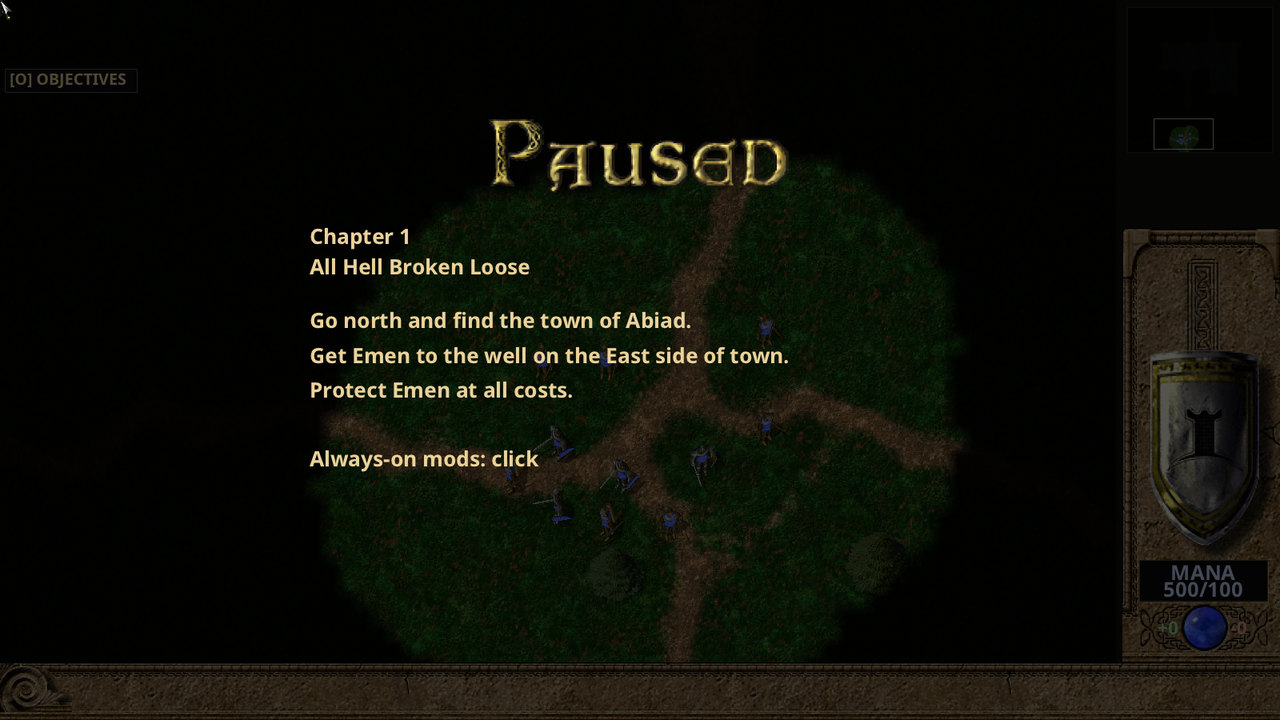
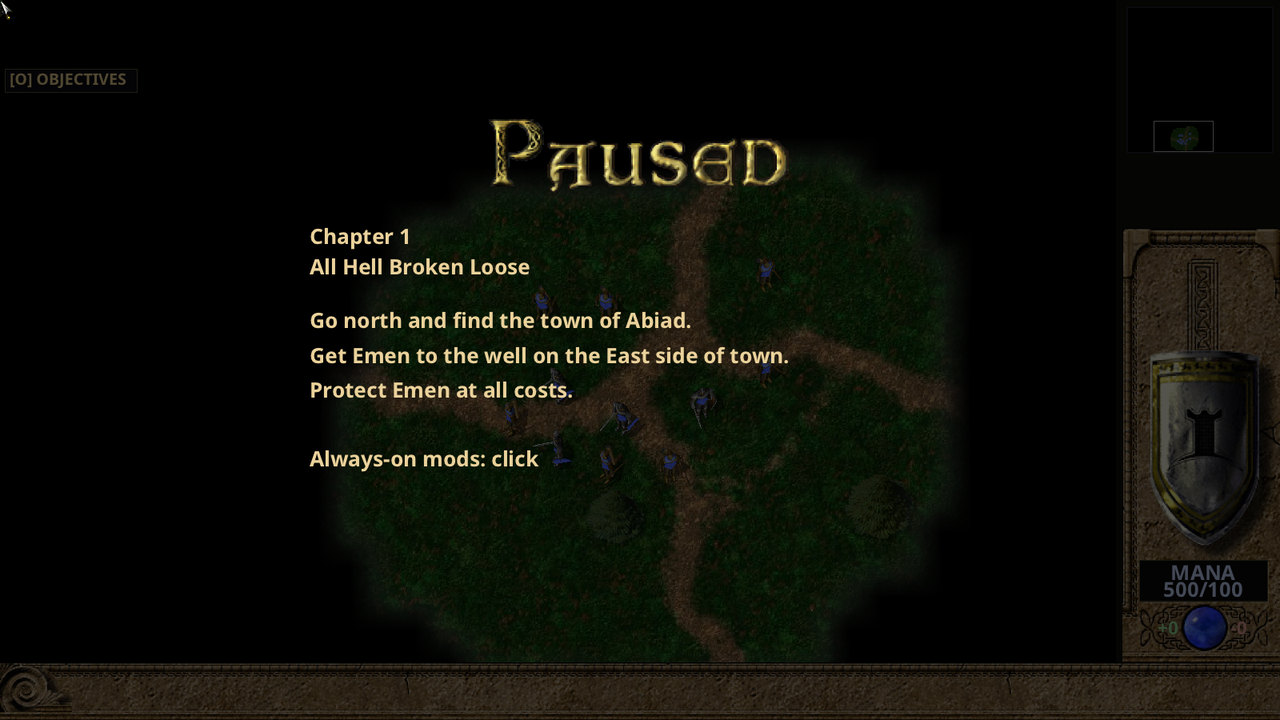
Retake the two guide pictures whose fog changed
campaign-briefing.jpg (unexplored ground now black around the squad's
sight) and disconnect-wait.jpg (Aramon's white mist outside Elsin's
sight, her radar no longer clearing the view), by the 0.9.0 capture jobs.
The army-filled HUD and side pictures were re-rendered, checked and kept.

Claude-Session: https://claude.ai/code/session_01UYTPK21mdyzXBEcWXE9ADp

diff --git a/docs/img/README.md b/docs/img/README.md
@@ -1,5 +1,21 @@
 # README and user-guide screenshots
 
+**Retaken for the retail fog of war** (2026-10-29): `guide/campaign-briefing.jpg`
+and `guide/disconnect-wait.jpg`, the two pictures whose fog changed visibly:
+ground never seen is now opaque black, ground seen before lies under the side's
+rolling mist (white for Aramon; Inner Circle plays the room default, EXPLORED),
+and the clear area follows retail's sight rules (about 1x sight on flat ground,
+the Monarch's radar no longer clearing it). Captured by a Debug `-O2` build of
+the fog branch with the 0.9.0 procedures unchanged: the briefing as the 0.9.0
+`brief` job (`--campaign takmission01_mt`, `TAK_SHOT_BRIEFING`, 1600 × 900, the
+0.9.0 capture profile and scratch install; script `brief.sh` in
+`~/tak-tmp/scratch/retailfog/shots/`), the disconnect banner with the 0.9.0
+`dw.sh` (same folder), both scaled to 1280 × 720, JPEG quality 86. Checked by
+eye and kept: `hud.jpg`, `guide/hud-annotated.jpg` and the five
+`guide/side-*.jpg` (re-rendered with the 0.9.0 jobs: the army fills the view,
+so it is all in sight and nothing differs but unit placement), and the
+spectator, replay and fog-off pictures, which draw no fog.
+
 **Retaken after 0.9.11** (2026-10-29): `guide/options-graphics.jpg` and
 `guide/voice-chat.jpg`, because the **SAVE** button is gone (Options, Voice Chat
 and Controls save every change as it is made): their footers now read
@@ -392,7 +408,7 @@ replace them. The unchanged views contain no version text.
 | `fire-on-the-move.jpg` | **From the 0.9.0 build. Development scene, two-player spawned.** Ulasem Arena, Retail pathfinding, 14 s after one plain move order east (**scripted orders**). 14 Aramon Archers and 2 Mage Builders were spawned in a 4-wide grid; 6 Taros Zombies and 6 Skeleton Archers (enemy, no AI) stand south of their path. Shift is held, so the move line shows. Zombies have reached the back of the column, which keeps walking and shooting; the flashes are hits, and three of the sixteen have fallen, so the information bar shows two portraits (2 Mage Builders, 11 Archers) and 13 SELECTED. 1.4× zoom, fog off |
 | `cartographer-terrain.jpg` | Cartographer Terrain tab on Ulasem Arena (`--shot --shot-tool terrain`, fresh editor profile, 921 × 691), retaken by the 0.9.0 build (byte-identical to the 0.8.3 picture): the grouped section browser, All sections (555 pieces, 1261 sections), with readable piece names, variant badges and the scrollbar, and five tools on the toolbar |
 | `tactical-dots.jpg` | From the 0.9.0 build. **Benchmark** run (Absurd) on Ulasem Arena, 50 game seconds in, spectator view fully zoomed out (zoom 0.1875, the floor for this map in a 1920 × 1080 window), where the default Tactical Dots Zoom of 0% shows dots. The deterministic run was rendered twice at the same tick and camera, with Tactical Dots off and on in otherwise identical profiles. The same 800 × 900 region (the east of the map: the blue and red armies) is cropped from each at 1:1 and placed side by side under labels. With models, fire and spell effects show among the armies; with dots none are drawn |
-| `campaign-briefing.jpg` | *Book of Darien* chapter 1 briefing over the paused battlefield, from a direct mission launch (`TAK_SHOT_BRIEFING`, 1600 × 900, scaled), by the 0.9.0 build: the PAUSED heading is retail art, the chapter, title and objectives are in the UI font, and the last line names the always-enabled cosmetic pack (Always-on mods: click). Nothing is selected, so the information bar is empty |
+| `campaign-briefing.jpg` | *Book of Darien* chapter 1 briefing over the paused battlefield, from a direct mission launch (`TAK_SHOT_BRIEFING`, 1600 × 900, scaled), retaken for the retail fog of war (2026-10-29; first entry; unexplored ground black around the squad's sight): the PAUSED heading is retail art, the chapter, title and objectives are in the UI font, and the last line names the always-enabled cosmetic pack (Always-on mods: click). Nothing is selected, so the information bar is empty |
 | `replay.jpg` | Replay playback of a recorded local-server game, 9 s of 16 s, with the time bar. **Stress-test start**: an Aramon army given one Legion move order (**scripted orders**). Recorded and played back by the 0.9.0 build |
 | `benchmark.jpg` | From the 0.9.0 build. Benchmark run (Absurd), 55 s in; the BENCHMARKING badge counts down the remaining time (0:05 of 60 s): armies meet at the edge of a sandy clearing, with health bars for every side; scaled from 1920 × 1080 |
 | `scorecard.jpg` | From the 0.9.0 build. F4 scorecard over a benchmark battle (Absurd), 55 s in, at 1.1× zoom: eight AI players with kills, losses and score; captured at 1920 × 1080 (so the BENCHMARKING badge clears the Score column) and scaled |
@@ -402,7 +418,7 @@ replace them. The unchanged views contain no version text.
 | `options-interface.jpg` | 0.9.0 build. Options screen in a 1600 × 1100 window scrolled to the Interface section, cropped to it (824 × 455): UI FONT MODERN, F4 SCORECARD SCALE and UI SCALE 100%, HEALTH BARS DAMAGED, STATS PANEL ON, BUILD MENU CENTER, BUILD MENU SCALE 100%, CHAT POSITION CENTERED and CHAT SCALE 100%; a fresh profile, all defaults |
 | `room-mods-power-codes.jpg` | Recaptured by the 0.9.0 build. Single-player room on Ulasem Arena, 1600 × 1000: POWER CODES clicked on in the create screen, two Normal AIs; under the COSMETIC MODS heading ALWAYS ON: click, then the packs (Classic Sounds ticked, Alternate Cursors not); under the GAME MODS heading ALWAYS ON: House Rules (an always-enabled game pack in the scratch install), then Big Battles ticked, so GAME MODS VERIFIED shows; the match rules read POWER CODES: ON, and MAP SCENARIO: OFF is a rules line. Clicked with `TAK_SHOT_CLICKS` |
 | `build-line.jpg` | New in 0.8.9, retaken by the 0.9.0 build. A Shift-drag wall line in progress: the committed debug `TAK_BUILDLINE_SHOT=560,0,2` fixture (`--testbuild`, Ulasem Arena) selects Elsin, chooses the Aramon wall, holds Shift, presses the left button, drags 560 px east and turns the mouse wheel up two notches, so the preview shows nine wall sites two cells apart and the **GAP 2** label by the pointer. 1.5× zoom, fog off; 1600 × 900, scaled |
-| `disconnect-wait.jpg` | Recaptured by the 0.9.0 build. Two humans on Inner Circle through a local `takserver --local --no-auth --seed 1` at the default 8 s stall threshold (data: a copy of the retail archives); the second client (Brannoc, headless) was stopped with `SIGSTOP` 40 s in, and the first (Aldric, 1600 × 900, scaled) was captured about 4 s after the banner appeared: the game is paused and reads WAITING FOR Brannoc 18 (a first stop's countdown starts at 22, as the 8 silent seconds are already spent). Nothing is selected. Capture script `~/tak-tmp/scratch/release-090/front/shots/dw.sh` |
+| `disconnect-wait.jpg` | Recaptured for the retail fog of war (2026-10-29; first entry), by the 0.9.0 procedure. Two humans on Inner Circle through a local `takserver --local --no-auth --seed 1` at the default 8 s stall threshold (data: a copy of the retail archives); the second client (Brannoc, headless) was stopped with `SIGSTOP` 40 s in, and the first (Aldric, 1600 × 900, scaled) was captured about 4 s after the banner appeared: the game is paused and reads WAITING FOR Brannoc 19, and the ground outside Elsin's sight lies under Aramon's white mist (a first stop's countdown starts at 22, as the 8 silent seconds are already spent). Nothing is selected. Capture script `~/tak-tmp/scratch/release-090/front/shots/dw.sh` |
 | `game-browser.jpg` | New in 0.9.0. The online game browser of a client signed in as *aldric* to a private loopback `takserver --local` with a scratch account file (every name registered on first sign-in), never the public server. Four headless debug clients on the same server made the games (their names and the password set by the capture-only patch): *Friday Night Skirmish* (Ulasem Arena, 1/8, open), *Clan Practice* (King of the Hill, 1/4, password, so LOCK), *Evening Ladder* (Inner Circle, a host against one server AI, started, so 2/4 LIVE with WATCH) and *Newcomers Welcome* (Ladron's Tarn, 1/8). REFRESH and CREATE at the top, the empty PASSWORD (FOR LOCKED GAMES) field and BACK at the bottom; hardware cursor on, so no pointer is drawn. 1600 × 900, scaled. Capture script `~/tak-tmp/scratch/release-090/front/shots/browser.sh`. Rendered by the 0.9.0 build |
 | `build-menu-wrap.jpg` | New in 0.8.11, retaken by the 0.9.0 build. A Zhon Beast Tamer's nine-icon conjure menu wrapped into two rows (five above four, centred, the container over both) left of the command panel and the mana orb. **Selection still life** (`--testbuild --side zon`, `TAK_SELPORTRAITS=zontrain:1`, local server), Ulasem Arena, a 1024 × 768 window at Build Menu Scale 150% (the menu fits one row at 100%), hardware cursor on so no pointer is drawn; not scaled |
 
